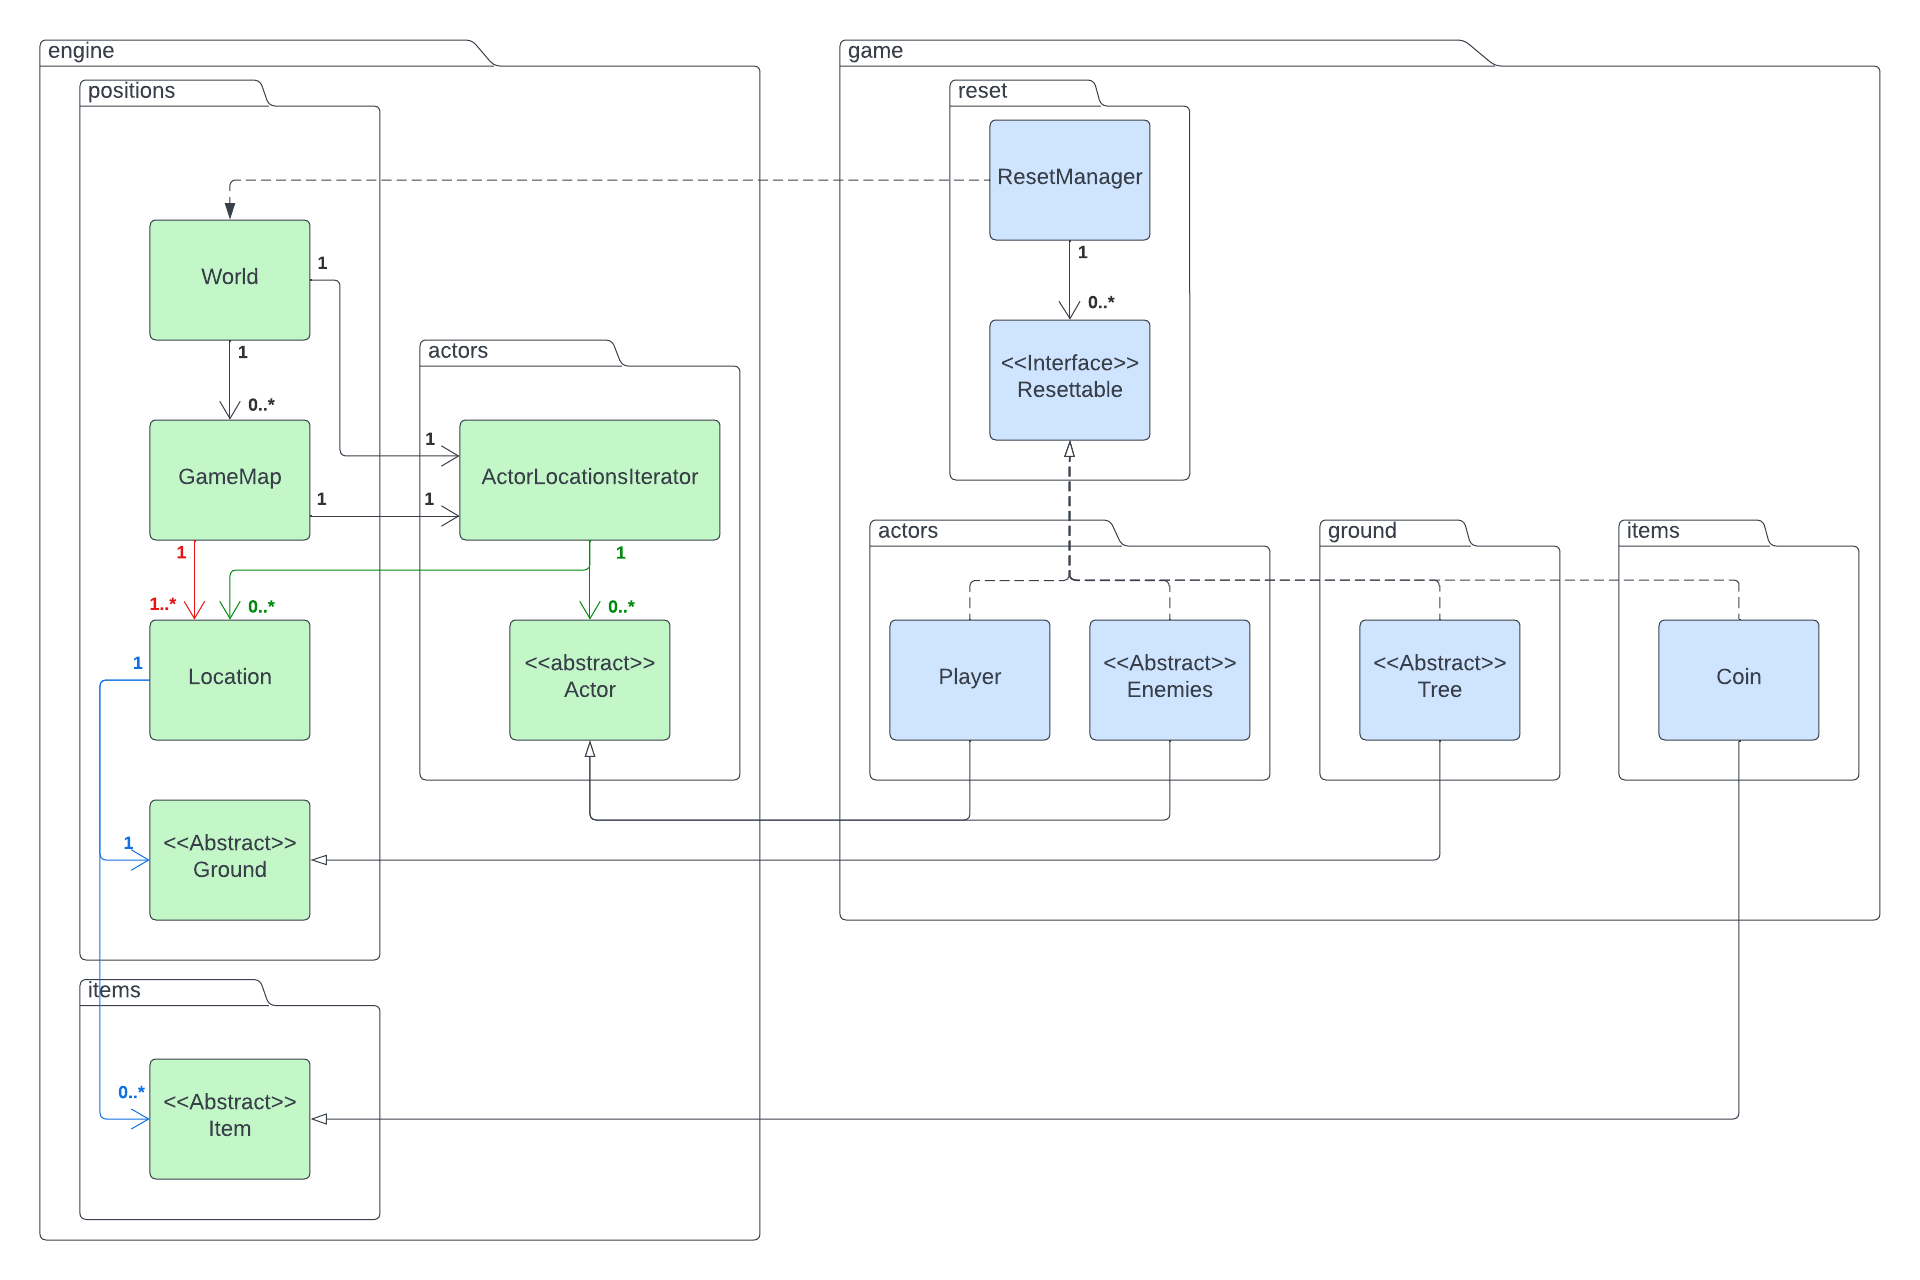
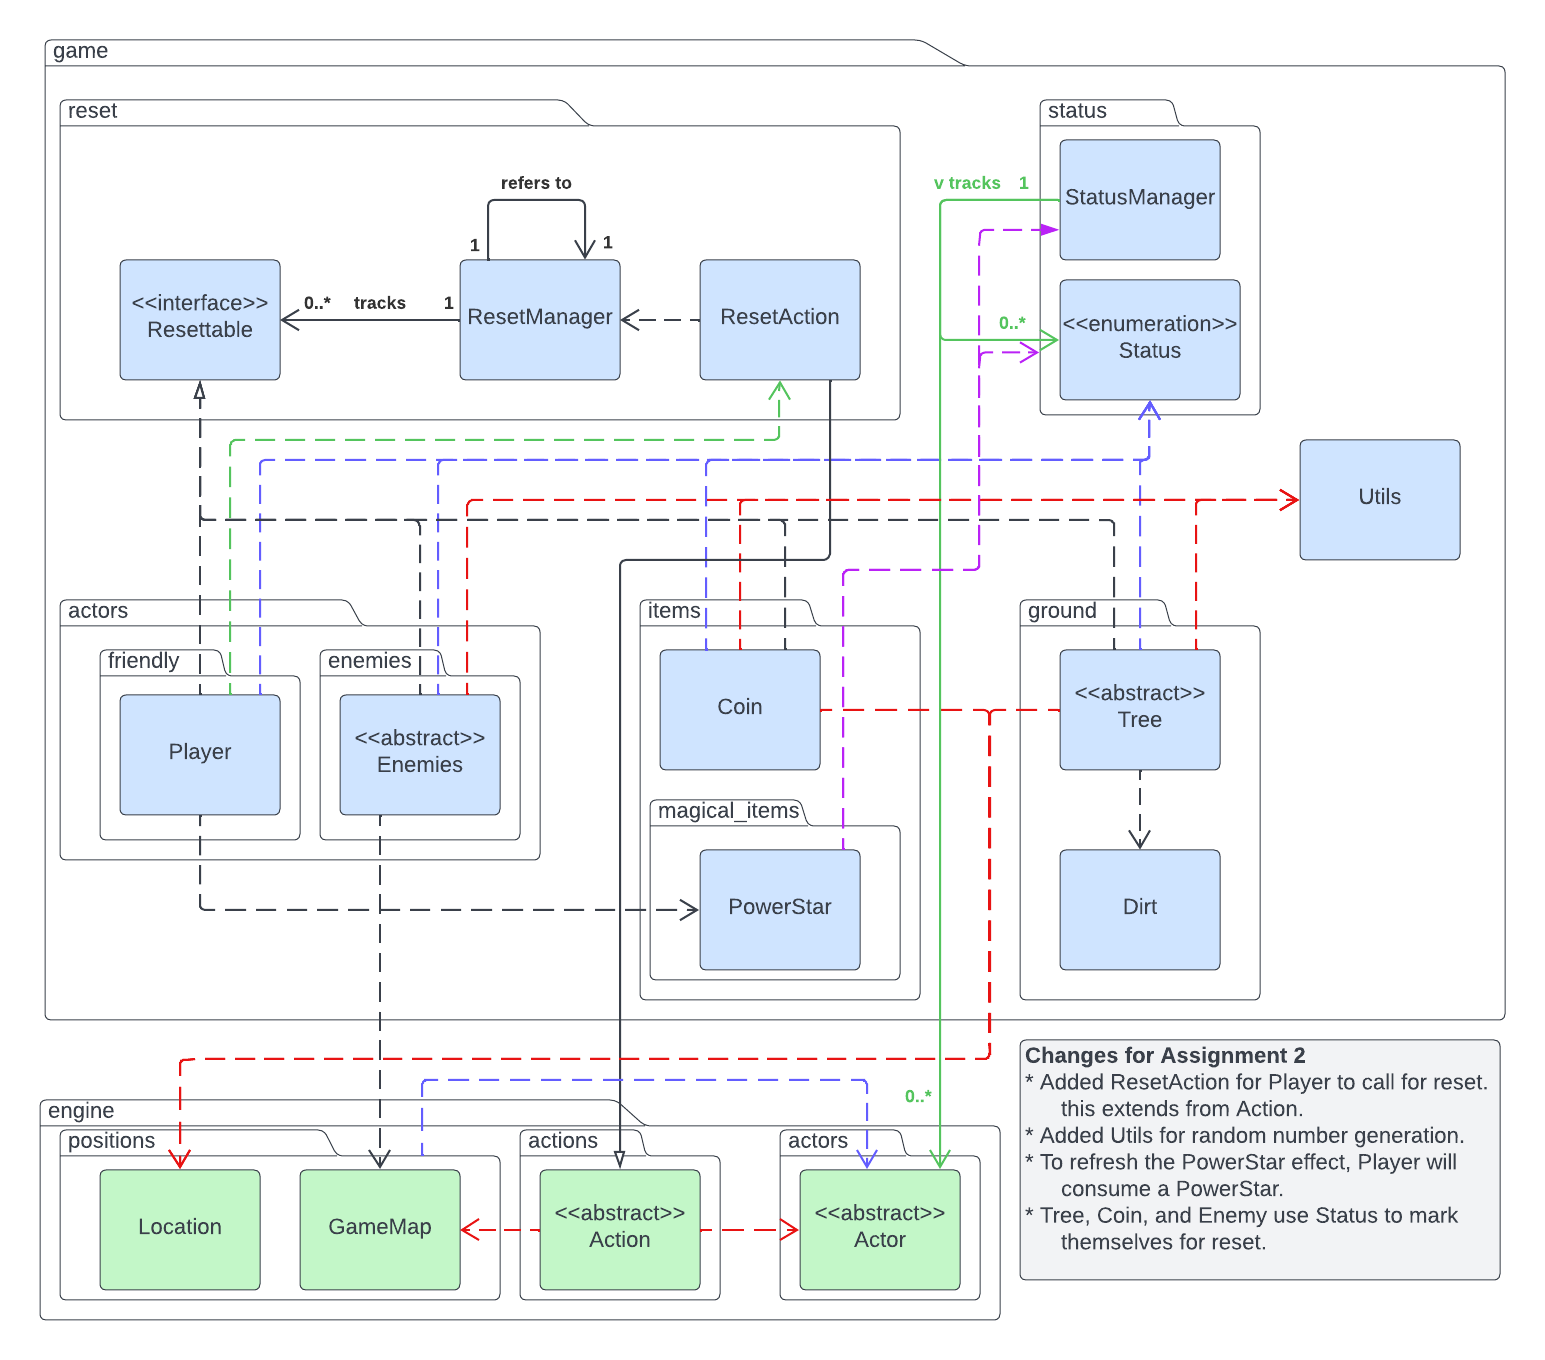
UPDATED onConsume of MagicalItem to abstract UPDATED class diagram of REQ7 to match A2 changes

diff --git a/src/game/items/magical_items/MagicalItem.java b/src/game/items/magical_items/MagicalItem.java
@@ -32,8 +32,5 @@ public abstract class MagicalItem extends Item{
      * Intended to be override by child classess
      * Call this function when MagicalItems are consumed, to provide statuses and effects
      */
-    public void onConsume(Actor actor) {
-
-    }
-
+    public abstract void onConsume(Actor actor);
 }
